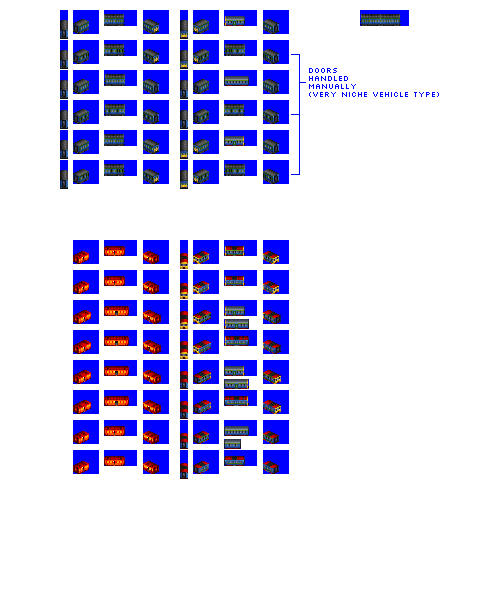
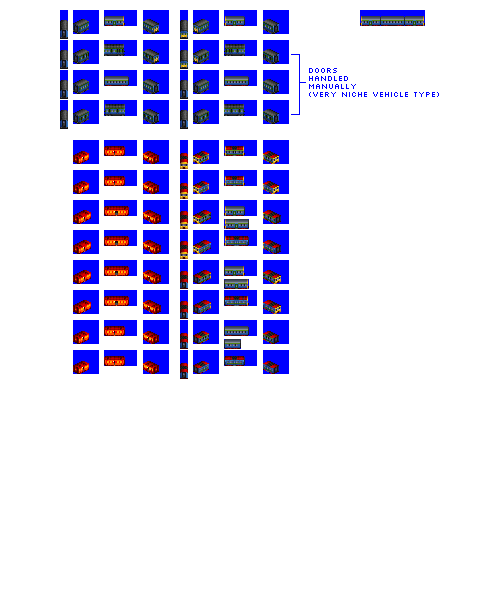
Change: WIP on Golfinho

diff --git a/src/train.py b/src/train.py
@@ -1474,6 +1474,38 @@ class AutoCoachCombineConsist(EngineConsist):
         return self.pax_car_capacity_type["loading_speed_multiplier"]
 
 
+class FixedFormationRailcarCombineConsist(EngineConsist):
+    """
+    Consist for a fixed formation articulated railcar combine (mail + pax).
+    This *does* not use consist-dependent position sprite rulesets; the formation is fixed.
+    """
+
+    def __init__(self, **kwargs):
+        super().__init__(**kwargs)
+        self.pax_car_capacity_type = self.roster.pax_car_capacity_types[
+            kwargs["pax_car_capacity_type"]
+        ]
+        if self.base_track_type_name == "NG":
+            # pony NG jank, to force a different role string for NG
+            if self.gen == 4:
+                self._buy_menu_additional_text_role_string = (
+                    "STR_ROLE_GENERAL_PURPOSE_EXPRESS"
+                )
+            else:
+                self._buy_menu_additional_text_role_string = "STR_ROLE_GENERAL_PURPOSE"
+        # Graphics configuration
+        self.gestalt_graphics = GestaltGraphicsCustom(
+            "vehicle_fixed_formation_railcar.pynml",
+            liveries=self.roster.get_liveries_by_name(
+                []
+            ),  # inserts the default liveries for docs examples
+        )
+
+    @property
+    def loading_speed_multiplier(self):
+        return self.pax_car_capacity_type["loading_speed_multiplier"]  # !!!!!!!!!!!!!!!
+
+
 class MailEngineConsist(EngineConsist):
     """
     Consist of engines / units that has mail (and express freight) capacity
@@ -6054,9 +6086,7 @@ class PanoramicCarConsist(PassengerCarConsistBase):
         # I'd prefer @property, but it was TMWFTLB to replace instances of weight_factor with _weight_factor for the default value
         self.weight_factor = 1 if self.base_track_type_name == "NG" else 2
         # pony NG jank directly set role buy menu string here, JFDI to make it work, may not actually be needed
-        self._buy_menu_additional_text_role_string = (
-            "STR_ROLE_GENERAL_PURPOSE_EXPRESS"
-        )
+        self._buy_menu_additional_text_role_string = "STR_ROLE_GENERAL_PURPOSE_EXPRESS"
         # Graphics configuration
         spriterow_group_mappings = {"default": 0, "first": 1, "last": 2, "special": 0}
         liveries = self.roster.get_pax_mail_liveries("default_pax_liveries", **kwargs)
@@ -7617,6 +7647,8 @@ class Train(object):
         self.default_effect_z_offset = (
             12  # optimised for Pony diesel and electric trains
         )
+        # optional - we might want to force the sprites to reverse in some contexts, for example rear cabs of multiple-unit articulated railcars
+        self.reverse_sprite_template = kwargs.get("reverse_sprite_template", False)
         # optional - only set if the graphics processor generates the vehicle chassis
         self.chassis = kwargs.get("chassis", None)
         # optional - occasionally we need to suppress composited roof sprites and just draw our own

diff --git a/src/vehicles/pony/golfinho.py b/src/vehicles/pony/golfinho.py
@@ -1,7 +1,7 @@
-from train import AutoCoachCombineConsist, DieselRailcarCombineUnitMail, DieselRailcarCombineUnitPax
+from train import FixedFormationRailcarCombineConsist, DieselRailcarCombineUnitMail, DieselRailcarCombineUnitPax
 
 def main(roster_id, **kwargs):
-    consist = AutoCoachCombineConsist(
+    consist = FixedFormationRailcarCombineConsist(
         roster_id=roster_id,
         id="golfinho",
         base_numeric_id=970,
@@ -20,26 +20,30 @@ def main(roster_id, **kwargs):
 
     consist.add_unit(
         type=DieselRailcarCombineUnitPax,
-        weight=18,
+        weight=20,
         effect_z_offset=11,  # reduce smoke z position to suit NG engine height
         chassis="railcar_ng_20px",
         tail_light="railcar_24px_1", # !!!!!!!!!!!!!!!!!!!!!!! wrong length
-    )
-
-    consist.add_unit(
-        type=DieselRailcarCombineUnitMail,
-        weight=18,
-        effect_z_offset=11,  # reduce smoke z position to suit NG engine height
-        chassis="railcar_ng_24px",
-        tail_light="railcar_24px_1", # !!!!!!!!!!!!!!!!!!!!!!! wrong length
+        spriterow_num=0,
     )
 
     consist.add_unit(
         type=DieselRailcarCombineUnitPax,
-        weight=18,
+        weight=22,
+        effect_z_offset=11,  # reduce smoke z position to suit NG engine height
+        chassis="railcar_ng_24px",
+        tail_light="railcar_24px_1", # !!!!!!!!!!!!!!!!!!!!!!! wrong length
+        spriterow_num=1,
+    )
+
+    consist.add_unit(
+        type=DieselRailcarCombineUnitMail,
+        weight=20,
         effect_z_offset=11,  # reduce smoke z position to suit NG engine height
         chassis="railcar_ng_20px",
         tail_light="railcar_24px_1", # !!!!!!!!!!!!!!!!!!!!!!! wrong length
+        spriterow_num=0,
+        reverse_sprite_template=True,
     )
 
     #https://fr.wikipedia.org/wiki/Stadler_SPATZ

diff --git a/src/rosters/pony.py b/src/rosters/pony.py
@@ -325,7 +325,7 @@ def main():
                 "loading_speed_multiplier": 1.5,
             },
             "railbus_combine_ng_2": {
-                "multiplier": 1.4,
+                "multiplier": 1.5,
                 "loading_speed_multiplier": 1.25,
             },
         },
